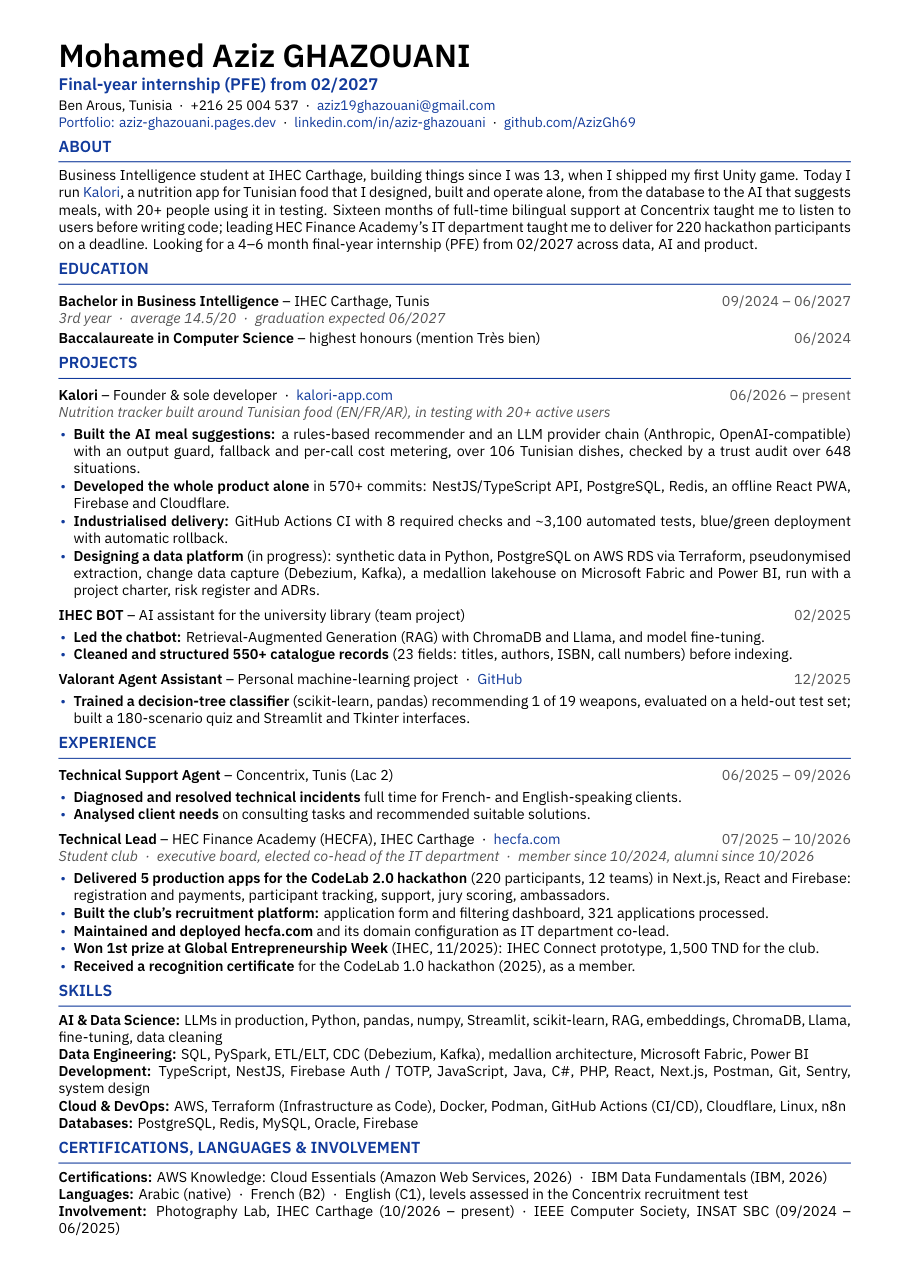
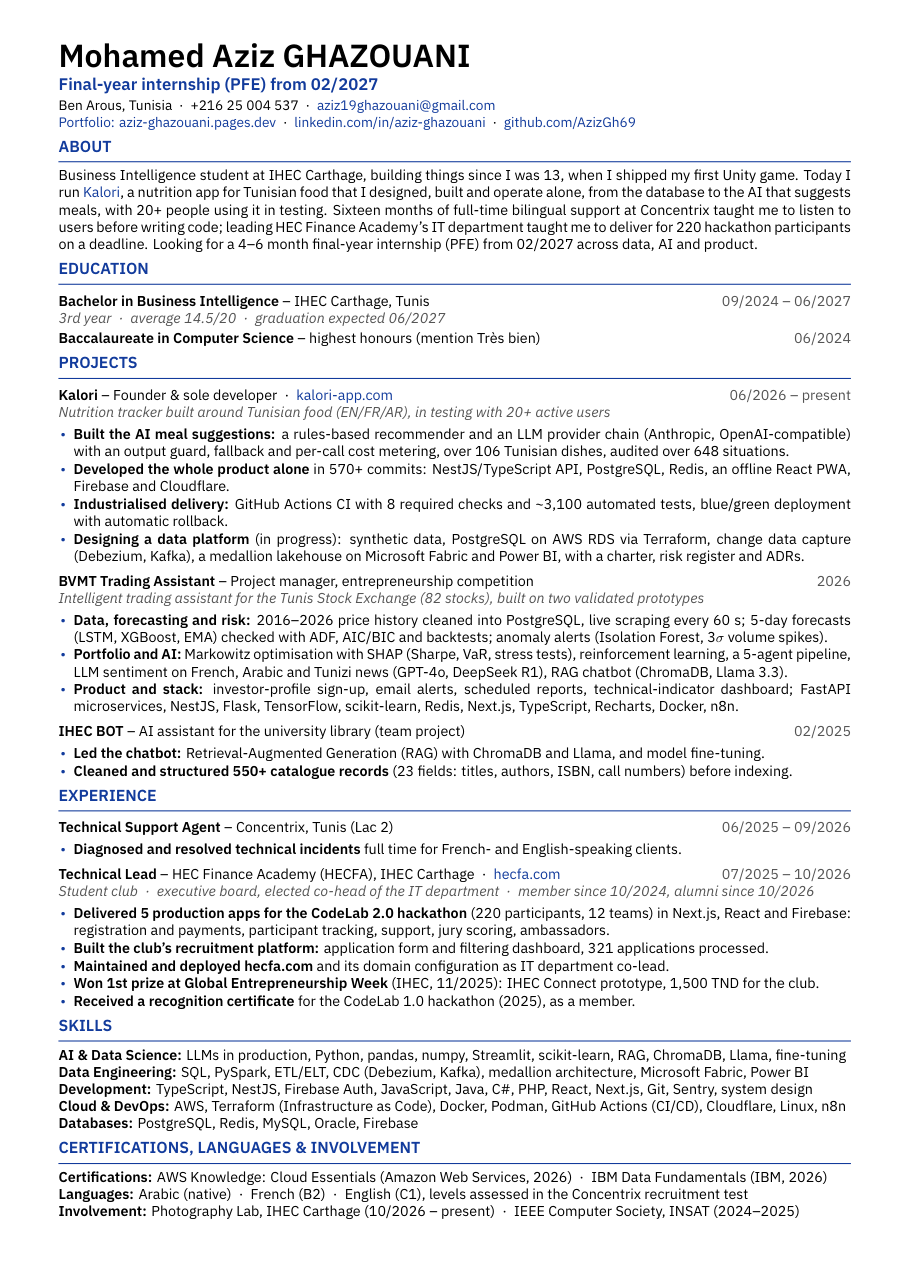
CV: add the BVMT trading assistant project

Changed region(s): [[0.0615, 0.3419, 0.9538, 0.8702], [0.1846, 0.9324, 0.9231, 0.9635], [0.0615, 0.9324, 0.1231, 0.9635]]

diff --git a/cv/source/build.py b/cv/source/build.py
@@ -53,16 +53,21 @@ ABOUT = (
 
 K = {
     "ai": r"\textbf{Built the AI meal suggestions:} a rules-based recommender and an LLM provider chain (Anthropic, OpenAI-compatible) with an output guard, fallback and per-call cost metering, checked by a trust audit over 648 situations.",
-    "ai_all": r"\textbf{Built the AI meal suggestions:} a rules-based recommender and an LLM provider chain (Anthropic, OpenAI-compatible) with an output guard, fallback and per-call cost metering, over 106 Tunisian dishes, checked by a trust audit over 648 situations.",
+    "ai_all": r"\textbf{Built the AI meal suggestions:} a rules-based recommender and an LLM provider chain (Anthropic, OpenAI-compatible) with an output guard, fallback and per-call cost metering, over 106 Tunisian dishes, audited over 648 situations.",
     "ai_short": r"\textbf{Added LLM meal suggestions} with per-call cost tracking, over 106 Tunisian dishes with counted nutrition values.",
     "solo": r"\textbf{Developed the whole product alone} in 570+ commits: NestJS/TypeScript API, PostgreSQL, Redis, an offline React PWA, Firebase and Cloudflare.",
     "ci": r"\textbf{Industrialised delivery:} GitHub Actions CI with 8 required checks and ~3,100 automated tests, blue/green deployment with automatic rollback.",
-    "dp": r"\textbf{Designing a data platform} (in progress): synthetic data in Python, PostgreSQL on AWS RDS via Terraform, pseudonymised extraction, change data capture (Debezium, Kafka), a medallion lakehouse on Microsoft Fabric and Power BI, run with a project charter, risk register and ADRs.",
+    "dp": r"\textbf{Designing a data platform} (in progress): synthetic data, PostgreSQL on AWS RDS via Terraform, change data capture (Debezium, Kafka), a medallion lakehouse on Microsoft Fabric and Power BI, with a charter, risk register and ADRs.",
 }
 BOT = {
     "lead": r"\textbf{Led the chatbot:} Retrieval-Augmented Generation (RAG) with ChromaDB and Llama, and model fine-tuning.",
     "clean": r"\textbf{Cleaned and structured 550+ catalogue records} (23 fields: titles, authors, ISBN, call numbers) before indexing.",
 }
+BVMT = [
+    r"\textbf{Data, forecasting and risk:} 2016--2026 price history cleaned into PostgreSQL, live scraping every 60 s; 5-day forecasts (LSTM, XGBoost, EMA) checked with ADF, AIC/BIC and backtests; anomaly alerts (Isolation Forest, 3$\sigma$ volume spikes).",
+    r"\textbf{Portfolio and AI:} Markowitz optimisation with SHAP (Sharpe, VaR, stress tests), reinforcement learning, a 5-agent pipeline, LLM sentiment on French, Arabic and Tunizi news (GPT-4o, DeepSeek R1), RAG chatbot (ChromaDB, Llama 3.3).",
+    r"\textbf{Product and stack:} investor-profile sign-up, email alerts, scheduled reports, technical-indicator dashboard; FastAPI microservices, NestJS, Flask, TensorFlow, scikit-learn, Redis, Next.js, TypeScript, Recharts, Docker, n8n.",
+]
 SKILLS = {
     "genai": [
         ("AI & Data Science", "LLMs in production, Python, pandas, scikit-learn, RAG, embeddings, ChromaDB, Llama, fine-tuning, data cleaning"),
@@ -72,9 +77,9 @@ SKILLS = {
         ("Databases", "PostgreSQL, Redis, MySQL, Oracle, Firebase"),
     ],
     "all": [
-        ("AI & Data Science", "LLMs in production, Python, pandas, numpy, Streamlit, scikit-learn, RAG, embeddings, ChromaDB, Llama, fine-tuning, data cleaning"),
+        ("AI & Data Science", "LLMs in production, Python, pandas, numpy, Streamlit, scikit-learn, RAG, ChromaDB, Llama, fine-tuning"),
         ("Data Engineering", "SQL, PySpark, ETL/ELT, CDC (Debezium, Kafka), medallion architecture, Microsoft Fabric, Power BI"),
-        ("Development", "TypeScript, NestJS, Firebase Auth / TOTP, JavaScript, Java, C#, PHP, React, Next.js, Postman, Git, Sentry, system design"),
+        ("Development", "TypeScript, NestJS, Firebase Auth, JavaScript, Java, C#, PHP, React, Next.js, Git, Sentry, system design"),
         ("Cloud & DevOps", "AWS, Terraform (Infrastructure as Code), Docker, Podman, GitHub Actions (CI/CD), Cloudflare, Linux, n8n"),
         ("Databases", "PostgreSQL, Redis, MySQL, Oracle, Firebase"),
     ],
@@ -114,14 +119,14 @@ def build(kind):
     s += r"\entry{Kalori}{ \textendash{} Founder \& sole developer\sep " + link("https://kalori-app.com", "kalori-app.com") + r"}{06/2026 \textendash{} present}" + "\n"
     s += r"\sub{Nutrition tracker built around Tunisian food (EN/FR/AR), in testing with 20+ active users}" + "\n"
     s += items(kalori)
+    s += r"\entry{BVMT Trading Assistant}{ \textendash{} Project manager, entrepreneurship competition}{2026}" + "\n"
+    s += r"\sub{Intelligent trading assistant for the Tunis Stock Exchange (82 stocks), built on two validated prototypes}" + "\n"
+    s += items(BVMT)
     s += r"\entry{IHEC BOT}{ \textendash{} AI assistant for the university library (team project)}{02/2025}" + "\n" + items(bot)
-    s += r"\entry{Valorant Agent Assistant}{ \textendash{} Personal machine-learning project\sep " + link("https://github.com/AzizGh69/ValorantAgentAssistant", "GitHub") + "}{12/2025}\n"
-    s += items([r"\textbf{Trained a decision-tree classifier} (scikit-learn, pandas) recommending 1 of 19 weapons, evaluated on a held-out test set; built a 180-scenario quiz and Streamlit and Tkinter interfaces."])
     s += "\\section{Experience}\n"
     s += r"\entry{Technical Support Agent}{ \textendash{} Concentrix, Tunis (Lac 2)}{06/2025 \textendash{} 09/2026}" + "\n"
     s += items([
         r"\textbf{Diagnosed and resolved technical incidents} full time for French- and English-speaking clients.",
-        r"\textbf{Analysed client needs} on consulting tasks and recommended suitable solutions.",
     ])
     s += r"\entry{Technical Lead}{ \textendash{} HEC Finance Academy (HECFA), IHEC Carthage\sep " + link("https://hecfa.com", "hecfa.com") + r"}{07/2025 \textendash{} 10/2026}" + "\n"
     s += r"\sub{Student club\sep executive board, elected co-head of the IT department\sep member since 10/2024, alumni since 10/2026}" + "\n"
@@ -130,13 +135,12 @@ def build(kind):
         r"\textbf{Built the club's recruitment platform:} application form and filtering dashboard, 321 applications processed.",
         r"\textbf{Maintained and deployed hecfa.com} and its domain configuration as IT department co-lead.",
         r"\textbf{Won 1st prize at Global Entrepreneurship Week} (IHEC, 11/2025): IHEC Connect prototype, 1,500 TND for the club.",
-        r"\textbf{Received a recognition certificate} for the CodeLab 1.0 hackathon (2025), as a member.",
-    ])
+        r"\textbf{Received a recognition certificate} for the CodeLab 1.0 hackathon (2025), as a member.",    ])
     s += "\\section{Skills}\n" + "".join("\\textbf{%s:} %s\\par\n" % (tex(a), tex(b)) for a, b in SKILLS[kind])
     s += r"\section{Certifications, languages \& involvement}" + "\n"
     s += r"\textbf{Certifications:} AWS Knowledge: Cloud Essentials (Amazon Web Services, 2026)\sep IBM Data Fundamentals (IBM, 2026)\par" + "\n"
     s += r"\textbf{Languages:} Arabic (native)\sep French (B2)\sep English (C1), levels assessed in the Concentrix recruitment test\par" + "\n"
-    s += r"\textbf{Involvement:} Photography Lab, IHEC Carthage (10/2026 \textendash{} present)\sep IEEE Computer Society, INSAT SBC (09/2024 \textendash{} 06/2025)\par" + "\n"
+    s += r"\textbf{Involvement:} Photography Lab, IHEC Carthage (10/2026 \textendash{} present)\sep IEEE Computer Society, INSAT (2024\textendash{}2025)\par" + "\n"
     s += "\\end{document}\n"
     name = NAMES[kind]
     open(name + ".tex", "w", encoding="utf-8").write(s)

diff --git a/cv/source/Mohamed-Aziz-Ghazouani-CV.tex b/cv/source/Mohamed-Aziz-Ghazouani-CV.tex
@@ -36,25 +36,27 @@ Business Intelligence student at IHEC Carthage, building things since I was 13, 
 \entry{Kalori}{ \textendash{} Founder \& sole developer\sep \href{https://kalori-app.com}{kalori-app.com}}{06/2026 \textendash{} present}
 \sub{Nutrition tracker built around Tunisian food (EN/FR/AR), in testing with 20+ active users}
 \begin{itemize}
-\item \textbf{Built the AI meal suggestions:} a rules-based recommender and an LLM provider chain (Anthropic, OpenAI-compatible) with an output guard, fallback and per-call cost metering, over 106 Tunisian dishes, checked by a trust audit over 648 situations.
+\item \textbf{Built the AI meal suggestions:} a rules-based recommender and an LLM provider chain (Anthropic, OpenAI-compatible) with an output guard, fallback and per-call cost metering, over 106 Tunisian dishes, audited over 648 situations.
 \item \textbf{Developed the whole product alone} in 570+ commits: NestJS/TypeScript API, PostgreSQL, Redis, an offline React PWA, Firebase and Cloudflare.
 \item \textbf{Industrialised delivery:} GitHub Actions CI with 8 required checks and \textasciitilde{}3,100 automated tests, blue/green deployment with automatic rollback.
-\item \textbf{Designing a data platform} (in progress): synthetic data in Python, PostgreSQL on AWS RDS via Terraform, pseudonymised extraction, change data capture (Debezium, Kafka), a medallion lakehouse on Microsoft Fabric and Power BI, run with a project charter, risk register and ADRs.
+\item \textbf{Designing a data platform} (in progress): synthetic data, PostgreSQL on AWS RDS via Terraform, change data capture (Debezium, Kafka), a medallion lakehouse on Microsoft Fabric and Power BI, with a charter, risk register and ADRs.
+\end{itemize}
+\entry{BVMT Trading Assistant}{ \textendash{} Project manager, entrepreneurship competition}{2026}
+\sub{Intelligent trading assistant for the Tunis Stock Exchange (82 stocks), built on two validated prototypes}
+\begin{itemize}
+\item \textbf{Data, forecasting and risk:} 2016--2026 price history cleaned into PostgreSQL, live scraping every 60 s; 5-day forecasts (LSTM, XGBoost, EMA) checked with ADF, AIC/BIC and backtests; anomaly alerts (Isolation Forest, 3$\sigma$ volume spikes).
+\item \textbf{Portfolio and AI:} Markowitz optimisation with SHAP (Sharpe, VaR, stress tests), reinforcement learning, a 5-agent pipeline, LLM sentiment on French, Arabic and Tunizi news (GPT-4o, DeepSeek R1), RAG chatbot (ChromaDB, Llama 3.3).
+\item \textbf{Product and stack:} investor-profile sign-up, email alerts, scheduled reports, technical-indicator dashboard; FastAPI microservices, NestJS, Flask, TensorFlow, scikit-learn, Redis, Next.js, TypeScript, Recharts, Docker, n8n.
 \end{itemize}
 \entry{IHEC BOT}{ \textendash{} AI assistant for the university library (team project)}{02/2025}
 \begin{itemize}
 \item \textbf{Led the chatbot:} Retrieval-Augmented Generation (RAG) with ChromaDB and Llama, and model fine-tuning.
 \item \textbf{Cleaned and structured 550+ catalogue records} (23 fields: titles, authors, ISBN, call numbers) before indexing.
 \end{itemize}
-\entry{Valorant Agent Assistant}{ \textendash{} Personal machine-learning project\sep \href{https://github.com/AzizGh69/ValorantAgentAssistant}{GitHub}}{12/2025}
-\begin{itemize}
-\item \textbf{Trained a decision-tree classifier} (scikit-learn, pandas) recommending 1 of 19 weapons, evaluated on a held-out test set; built a 180-scenario quiz and Streamlit and Tkinter interfaces.
-\end{itemize}
 \section{Experience}
 \entry{Technical Support Agent}{ \textendash{} Concentrix, Tunis (Lac 2)}{06/2025 \textendash{} 09/2026}
 \begin{itemize}
 \item \textbf{Diagnosed and resolved technical incidents} full time for French- and English-speaking clients.
-\item \textbf{Analysed client needs} on consulting tasks and recommended suitable solutions.
 \end{itemize}
 \entry{Technical Lead}{ \textendash{} HEC Finance Academy (HECFA), IHEC Carthage\sep \href{https://hecfa.com}{hecfa.com}}{07/2025 \textendash{} 10/2026}
 \sub{Student club\sep executive board, elected co-head of the IT department\sep member since 10/2024, alumni since 10/2026}
@@ -66,13 +68,13 @@ Business Intelligence student at IHEC Carthage, building things since I was 13, 
 \item \textbf{Received a recognition certificate} for the CodeLab 1.0 hackathon (2025), as a member.
 \end{itemize}
 \section{Skills}
-\textbf{AI \& Data Science:} LLMs in production, Python, pandas, numpy, Streamlit, scikit-learn, RAG, embeddings, ChromaDB, Llama, fine-tuning, data cleaning\par
+\textbf{AI \& Data Science:} LLMs in production, Python, pandas, numpy, Streamlit, scikit-learn, RAG, ChromaDB, Llama, fine-tuning\par
 \textbf{Data Engineering:} SQL, PySpark, ETL/ELT, CDC (Debezium, Kafka), medallion architecture, Microsoft Fabric, Power BI\par
-\textbf{Development:} TypeScript, NestJS, Firebase Auth / TOTP, JavaScript, Java, C\#, PHP, React, Next.js, Postman, Git, Sentry, system design\par
+\textbf{Development:} TypeScript, NestJS, Firebase Auth, JavaScript, Java, C\#, PHP, React, Next.js, Git, Sentry, system design\par
 \textbf{Cloud \& DevOps:} AWS, Terraform (Infrastructure as Code), Docker, Podman, GitHub Actions (CI/CD), Cloudflare, Linux, n8n\par
 \textbf{Databases:} PostgreSQL, Redis, MySQL, Oracle, Firebase\par
 \section{Certifications, languages \& involvement}
 \textbf{Certifications:} AWS Knowledge: Cloud Essentials (Amazon Web Services, 2026)\sep IBM Data Fundamentals (IBM, 2026)\par
 \textbf{Languages:} Arabic (native)\sep French (B2)\sep English (C1), levels assessed in the Concentrix recruitment test\par
-\textbf{Involvement:} Photography Lab, IHEC Carthage (10/2026 \textendash{} present)\sep IEEE Computer Society, INSAT SBC (09/2024 \textendash{} 06/2025)\par
+\textbf{Involvement:} Photography Lab, IHEC Carthage (10/2026 \textendash{} present)\sep IEEE Computer Society, INSAT (2024\textendash{}2025)\par
 \end{document}
